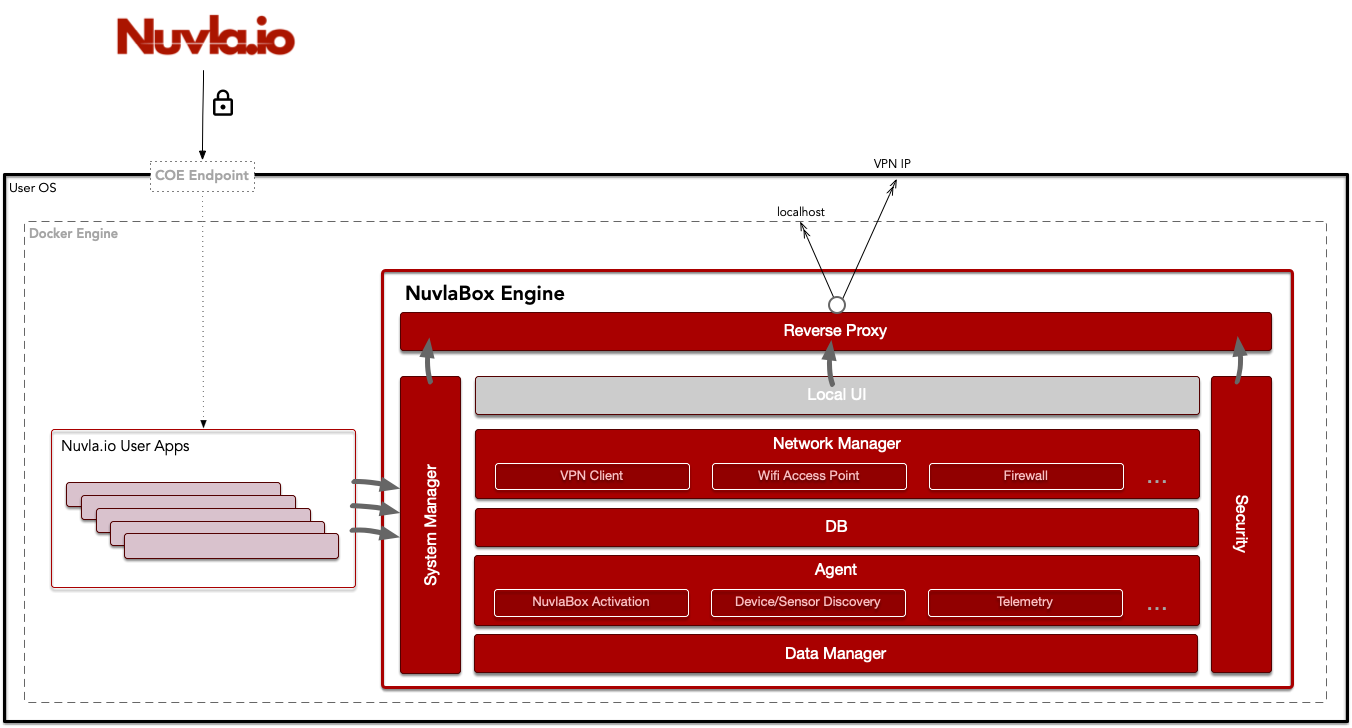
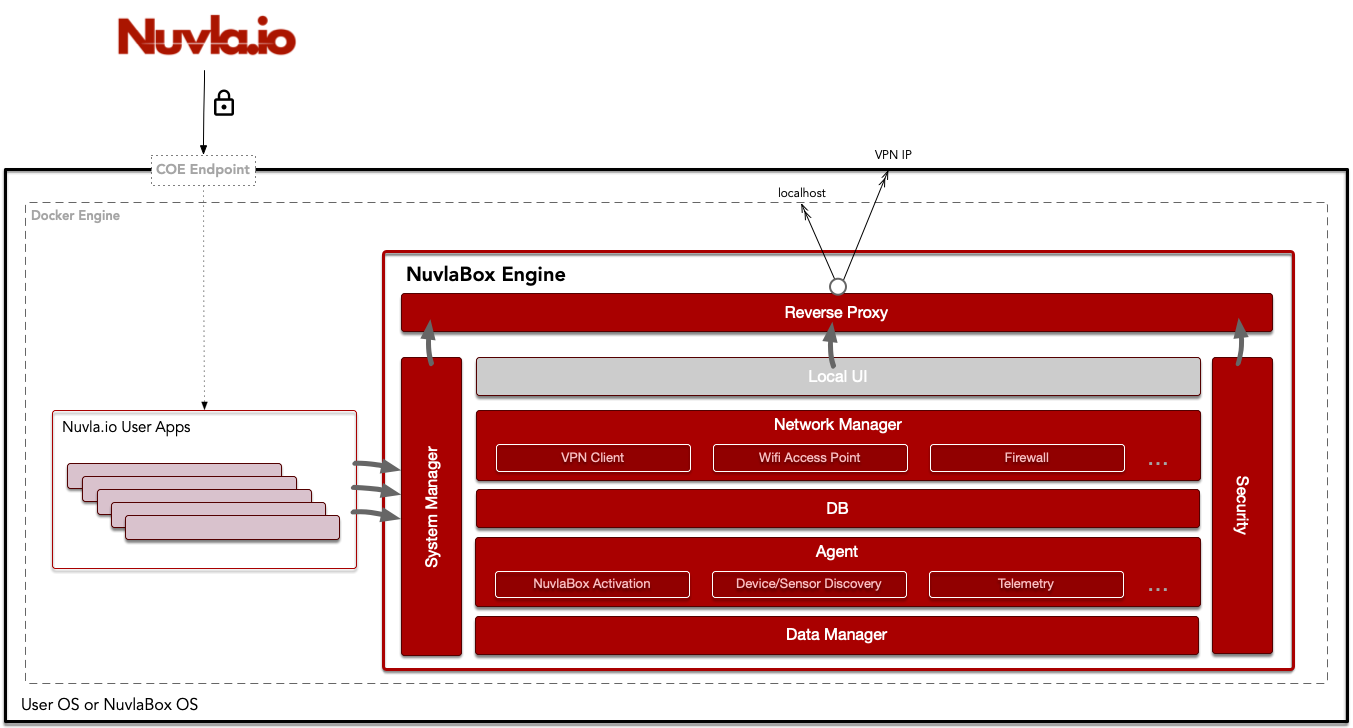
clean-up and update NuvlaBox diagram

Changed region(s): [[0.0, 0.2115, 1.0, 1.0], [0.0932, 0.0302, 0.2175, 0.0907], [0.1553, 0.1209, 0.1864, 0.1511]]

diff --git a/index.html b/index.html
@@ -22,7 +22,6 @@ permalink: /
 ### Nuvla.io is a unique platform as a Service that is **cloud neutral**, **container native**, **hardware agnostic**, **open-source** based, **secure**, and **agile**. You can depend on Nuvla.io for the implementation and **commercialisation of edge-to-cloud solutions**.
 {: class="text-center pt-20 pb-50"}
 
-
 ![Nuvla.io Overview](/img/content/diagrams/nuvla-io-overview.png "Nuvla.io Overview")
 {: class="text-center pb-50 highlight-image"}
 

diff --git a/_layouts/product.html b/_layouts/product.html
@@ -51,7 +51,7 @@
 				<div class="row icon-is-it-for">
         {% for post in site.customers %}
           {% if post.top-story == true %}
-            {% include welcome-partners-item.html %}
+            {% include partners-item.html %}
           {% endif %}
         {% endfor %}
       	</div>

diff --git a/nuvla-io-getting-started.md b/nuvla-io-getting-started.md
@@ -15,13 +15,16 @@ permalink: /getting-started
 ## Here's the full picture
 {: class="text-center"}
 
+### Nuvla.io is a unique platform as a Service that is **cloud neutral**, **container native**, **hardware agnostic**, **open-source** based, **secure** and **agile**. You can depend on Nuvla.io for the implementation and **commercialisation of edge-to-cloud solutions**.
+{: class="text-center pt-20 pb-50"}
+
 ![Nuvla.io Detailed](/img/content/diagrams/nuvla-io-detailed.png "Nuvla.io Detailed")
 {: class="text-center pt-0 pb-50 highlight-image"}
 
 ## Service Architecture
 {: class="text-center pt-20 pb-30"}
 
-#### The Nuvla.io service architecture includes both technical and business enablement features needed for you to create your own marketplace at the edge.
+### The Nuvla.io service architecture includes both technical and business enablement features needed for you to create your own marketplace at the edge.
 {: class="text-center pt-20"}
 
 ![Nuvla.io Detailed](/img/content/diagrams/nuvla-io-service-architecture.png "Nuvla.io Service Architecture and Security")
@@ -57,7 +60,4 @@ Therefore, we imposed the following strict guidelines on ourselves when we creat
 ![NuvlaBox Engine Detailed](/img/content/diagrams/nuvlabox-detailed.png "NuvlaBox Engine Service Architecture")
 {: class="text-center pt-40 pb-20 highlight-image"}
 
-Create a comprehensive and secure edge-to-cloud architecture, to extract the insights from your data at the edge.
-{: class="text-center pt-20 pb-20"}
-
-* <i class="fad fa-check"></i> **Marketplace:** with the up-coming integration of Stripe Connect, Nuvla.io becomes a business marketplace for edge-to-cloud solutions. With revenue share between app developers and infrastructure providers, Nuvla.io enables the next generation of business at the edge.
+More details on the NuvlaBox are available [here](https://sixsq.com/products-and-services/nuvlabox/overview).
